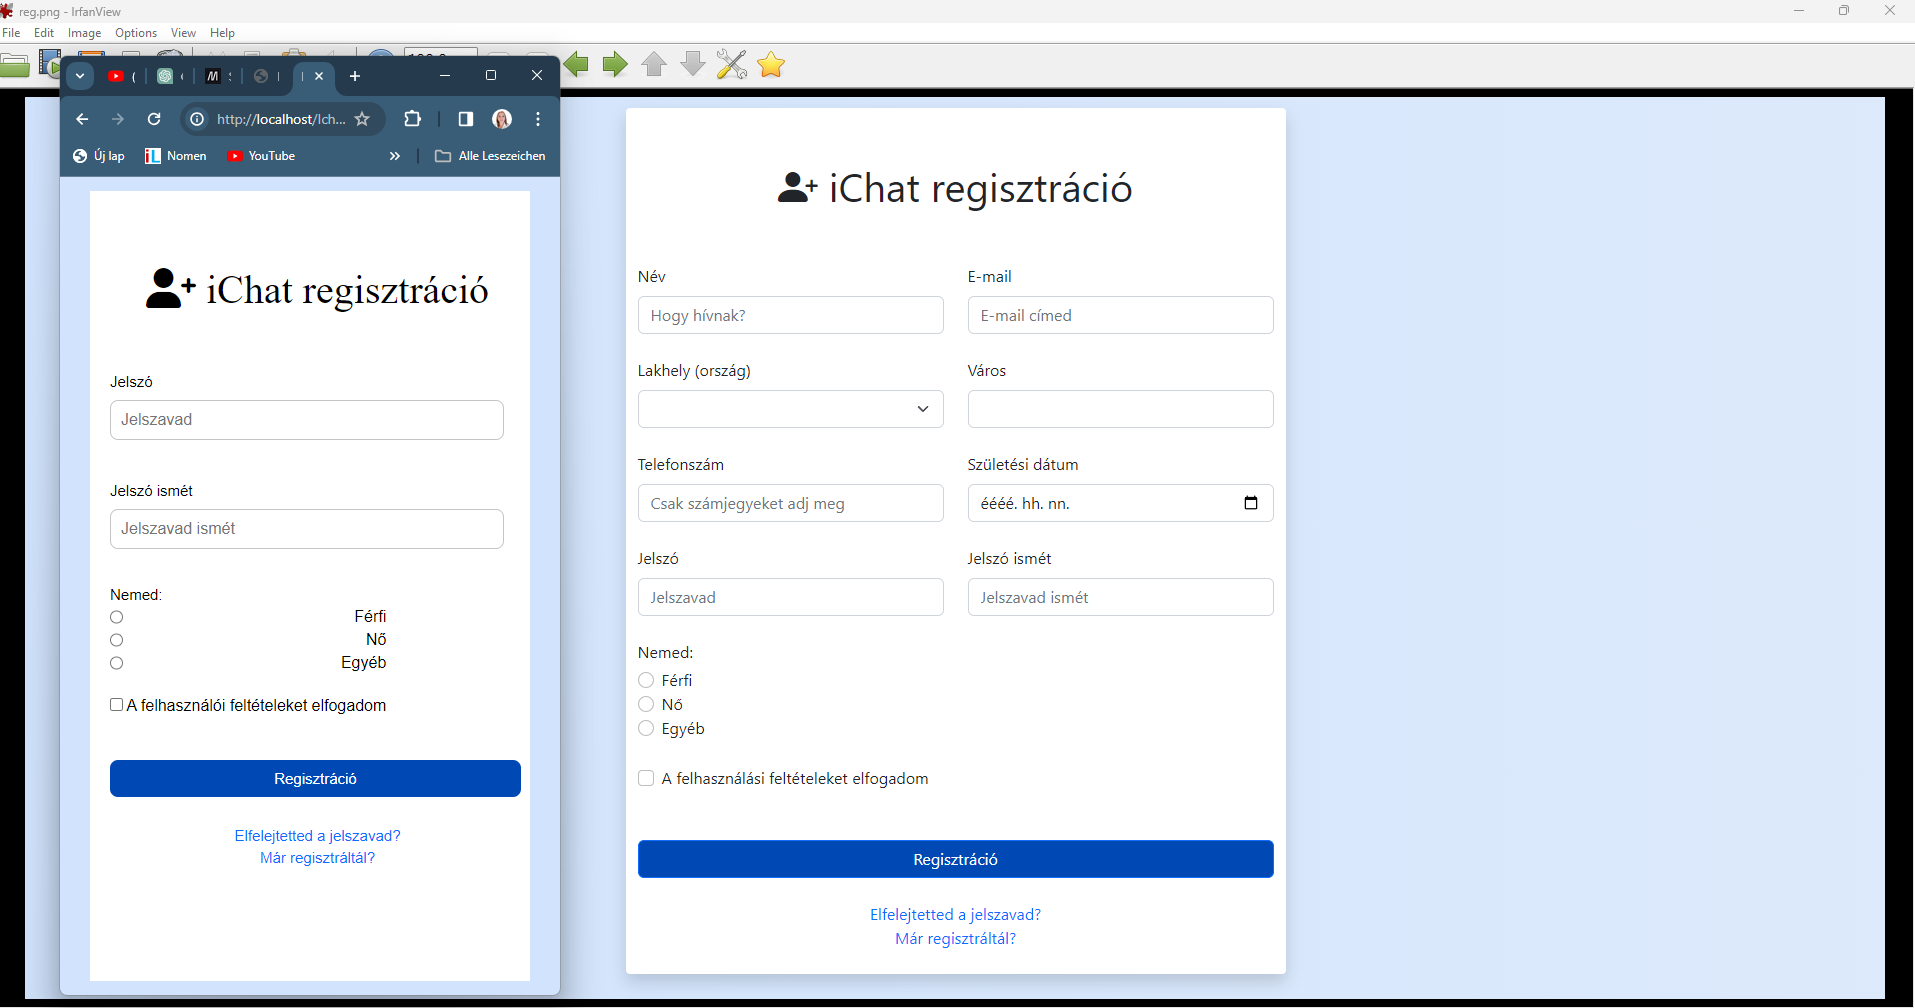
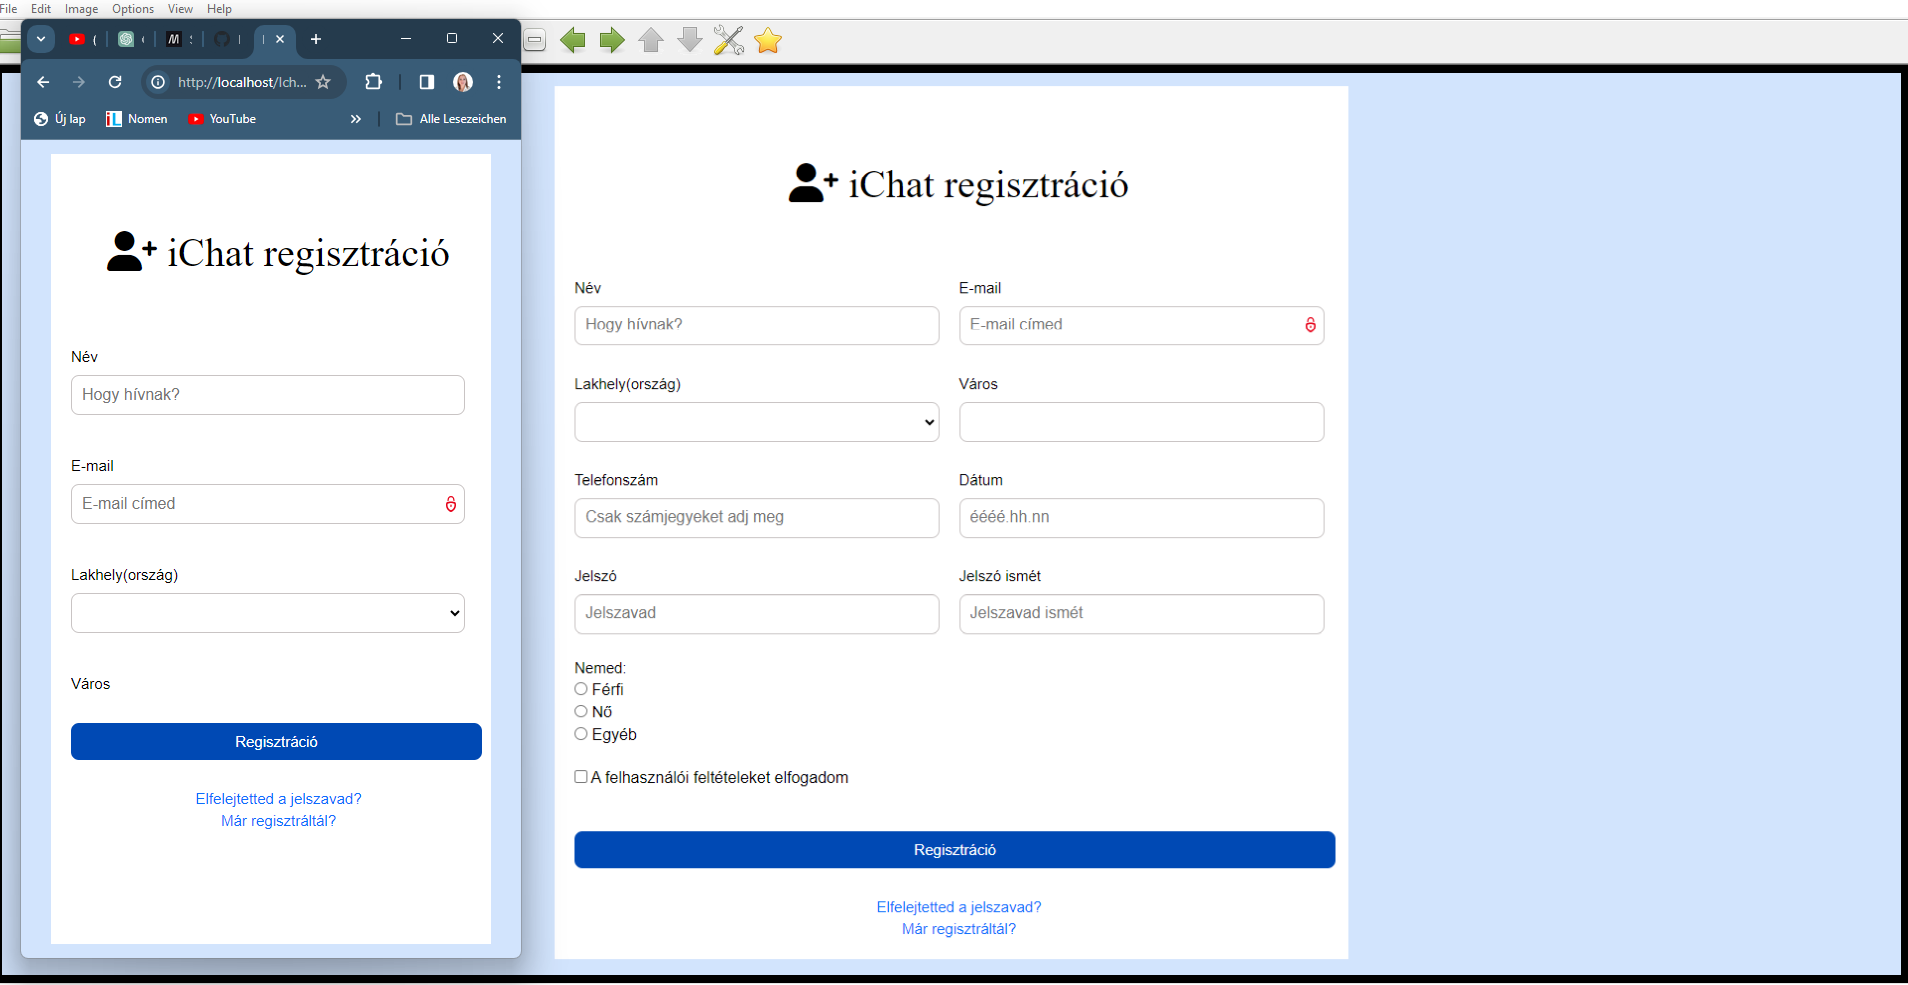
add media query korekktion

diff --git a/login.css b/login.css
@@ -142,7 +142,7 @@ h6{
         max-height: 380px;
         overflow: auto;
     }
-   .more-details{
-        margin-top:260px;
+   .more-details a{
+        margin-top:-60px;
    }
 }
